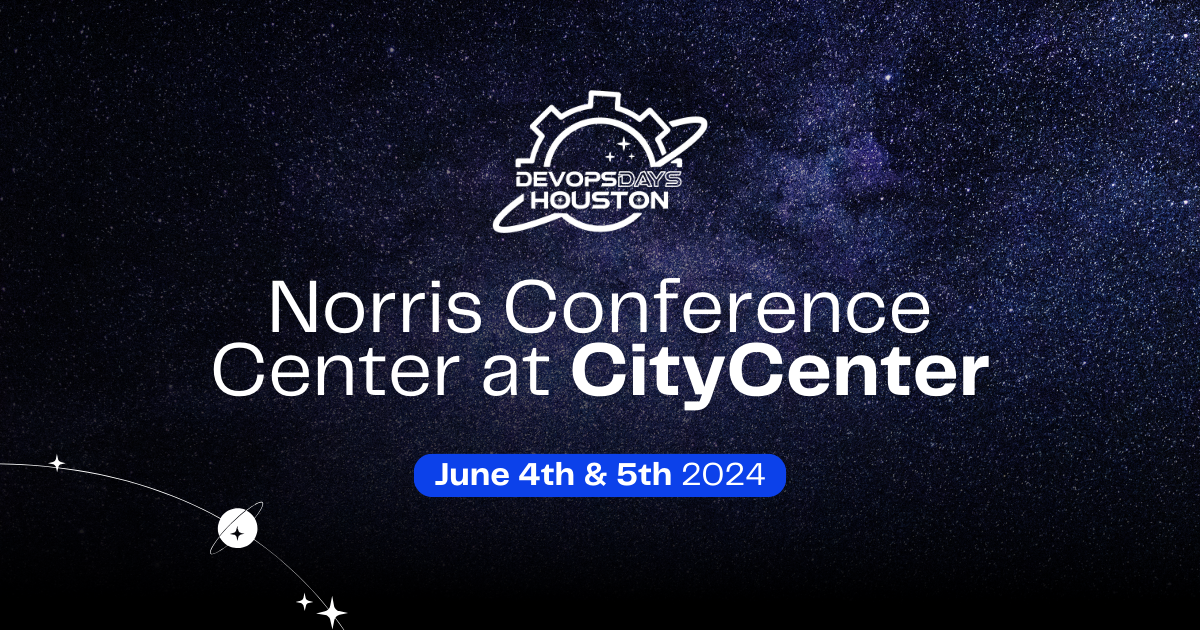
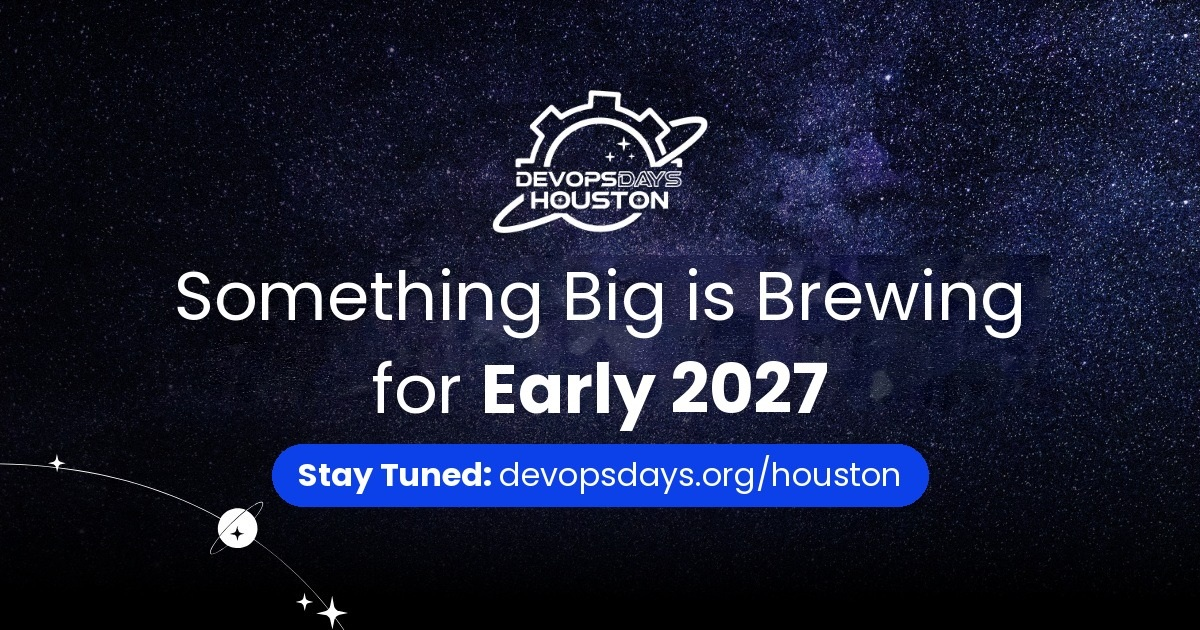
[HOU-2027] Update sharing image, add organizer photo/details (#16123)

Changed region(s): [[0.1233, 0.3921, 0.8942, 0.8143]]

diff --git a/content/events/2027-houston/welcome.md b/content/events/2027-houston/welcome.md
@@ -5,27 +5,29 @@ aliases = ["/events/2027-houston/"]
 Description = "devopsdays Houston 2027"
 +++
 
-<!-- <div style="text-align:center;">
-  {{< event_logo >}}
-</div> -->
+<div class="row">
+	<div class="col-md-8">
+  <div>
+  <p>DevOpsDays Houston will be returning in early 2027. Stay tuned!</p>
+  </div>
 
 <div class = "row">
   <div class = "col-md-2">
     <strong>Dates</strong>
   </div>
   <div class = "col-md-8">
-    {{< event_start >}} - {{< event_end >}}
+    TBD (Early 2027) <!-- {{< event_start >}} - {{< event_end >}} -->
   </div>
 </div>
 
-<!-- <div class = "row">
+<div class = "row">
   <div class = "col-md-2">
     <strong>Location</strong>
   </div>
   <div class = "col-md-8">
-    {{< event_location >}}
+    TBD <!-- {{< event_location >}} -->
   </div>
-</div> -->
+</div>
 
 <!-- <div class = "row">
   <div class = "col-md-2">
@@ -81,7 +83,24 @@ Description = "devopsdays Houston 2027"
   </div>
 </div>
 
+<!-- LinkedIn -->
+<div class="row">
+  <div class="col-md-2"></div>
+  <div class="col-md-8">
+  <script src="https://platform.linkedin.com/in.js" type="text/javascript">
+    lang: en_US 
+    authorize: true
+  </script>
+  <script type="IN/FollowCompany" data-id="35523918"></script>
+  </div>
+</div>
+
 <!-- Uncomment if you added your city twitter name -->
 <!--
 {{< event_twitter >}}
 -->
+</div>
+  <div class="col-md-4">
+          {{< event_logo >}}
+  </div>
+</div>
